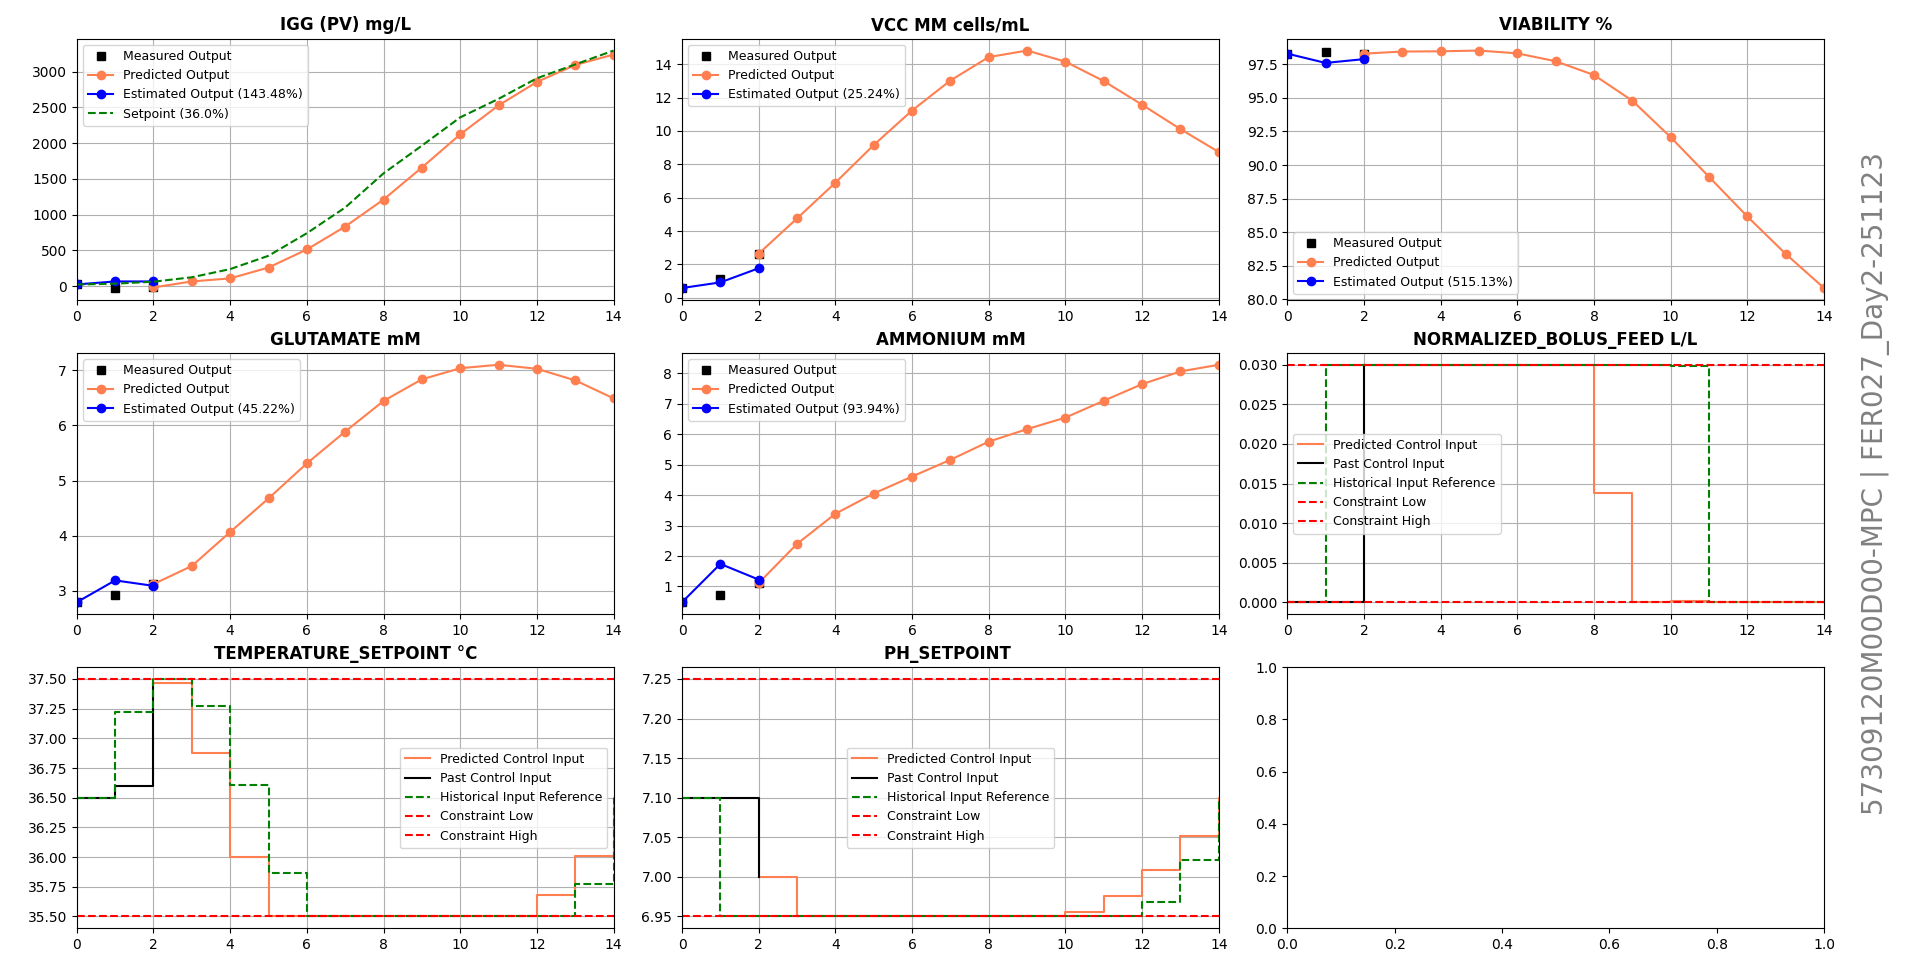
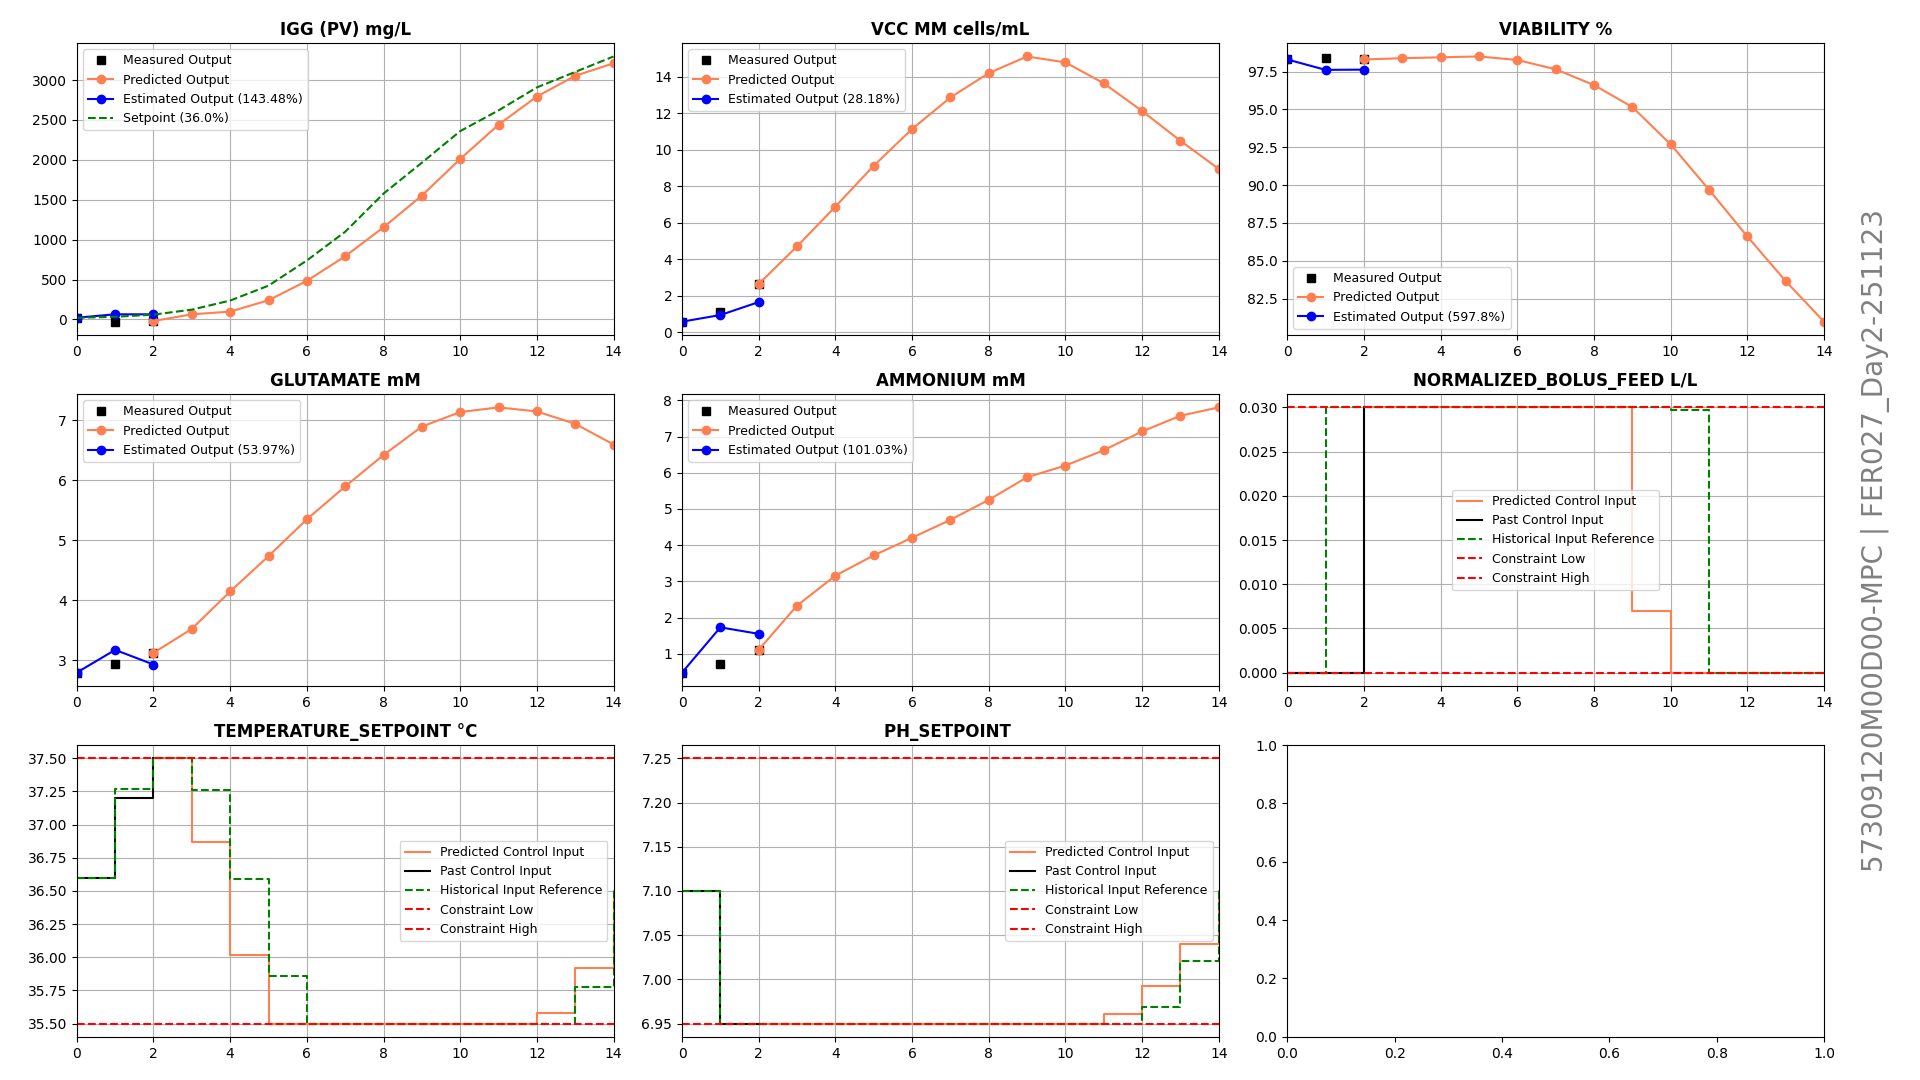
Verify this ingest_vectors patch before deployment
Issue: Day 2's pH and temperature sp readings were assigned to Day 2's bioreactor.data. Solution: in ingest_vectors(), excluded input_data_labels from selected_col, only when it's day 1 or later, assign the current day's input readings to previous day; used an if statement to treat totalizer and non-totoalizer inputs differently

diff --git a/src/mpc/mpc_optimizer.py b/src/mpc/mpc_optimizer.py
@@ -353,7 +353,7 @@ class Bioreactor:
 
             selected_col = (
                 self.process_model.state_data_labels
-                + self.process_model.input_data_labels
+                # + self.process_model.input_data_labels # (YL: I don't know why but including the input in this line resulted in Day 0's T being changed from 36.6 back to 36.5 on Day 2)
                 + [self.volume_label]
             )
             if renamed_vector is not None:
@@ -378,18 +378,39 @@ class Bioreactor:
 
         # convert cumulative to daily feed for the optimizer
         if self.curr_time > 0:
-            for name in self.monotonic_inputs:
-                # Convert input data back to daily
-                # convert totalizer values up until the current time only
-                # future times are already daily from optimized inputs
-                total_input_data_curr_time = self.data.loc[
-                    : self.curr_time, f"{name.upper()}{self.process_model.input_suffix}"
-                ]
-                daily_input_data_curr_time = np.diff(total_input_data_curr_time)
-                self.data.loc[
-                    : (self.curr_time - 1),
-                    f"{name.upper()}{self.process_model.input_suffix}",
-                ] = daily_input_data_curr_time
+            # for name in self.monotonic_inputs:
+            #     # Convert input data back to daily
+            #     # convert totalizer values up until the current time only
+            #     # future times are already daily from optimized inputs
+            #     total_input_data_curr_time = self.data.loc[
+            #         : self.curr_time, f"{name.upper()}{self.process_model.input_suffix}"
+            #     ]
+            #     daily_input_data_curr_time = np.diff(total_input_data_curr_time)
+            #     self.data.loc[
+            #         : (self.curr_time - 1),
+            #         f"{name.upper()}{self.process_model.input_suffix}",
+            #     ] = daily_input_data_curr_time
+
+            for name in self.process_model.inputs:
+                if name in self.monotonic_inputs:
+                    
+                    # Convert input data back to daily
+                    # convert totalizer values up until the current time only
+                    # future times are already daily from optimized inputs
+                    total_input_data_curr_time = self.data.loc[
+                        : self.curr_time, f"{name.upper()}{self.process_model.input_suffix}"
+                    ]
+                    daily_input_data_curr_time = np.diff(total_input_data_curr_time)
+                    self.data.loc[
+                        : (self.curr_time - 1),
+                        f"{name.upper()}{self.process_model.input_suffix}",
+                    ] = daily_input_data_curr_time
+
+                else:
+                    # Assign current day's reading of non-totalizer inputs to previous day's input--data
+                    self.data.loc[self.curr_time - 1,
+                        f"{name.upper()}{self.process_model.input_suffix}",
+                    ] = renamed_vector[f"{name.upper()}{self.process_model.input_suffix}"]
 
         # normalize variables outside of the loop to avoid negative values
         for key, var in self.controller_config["Input Variables"].items():
